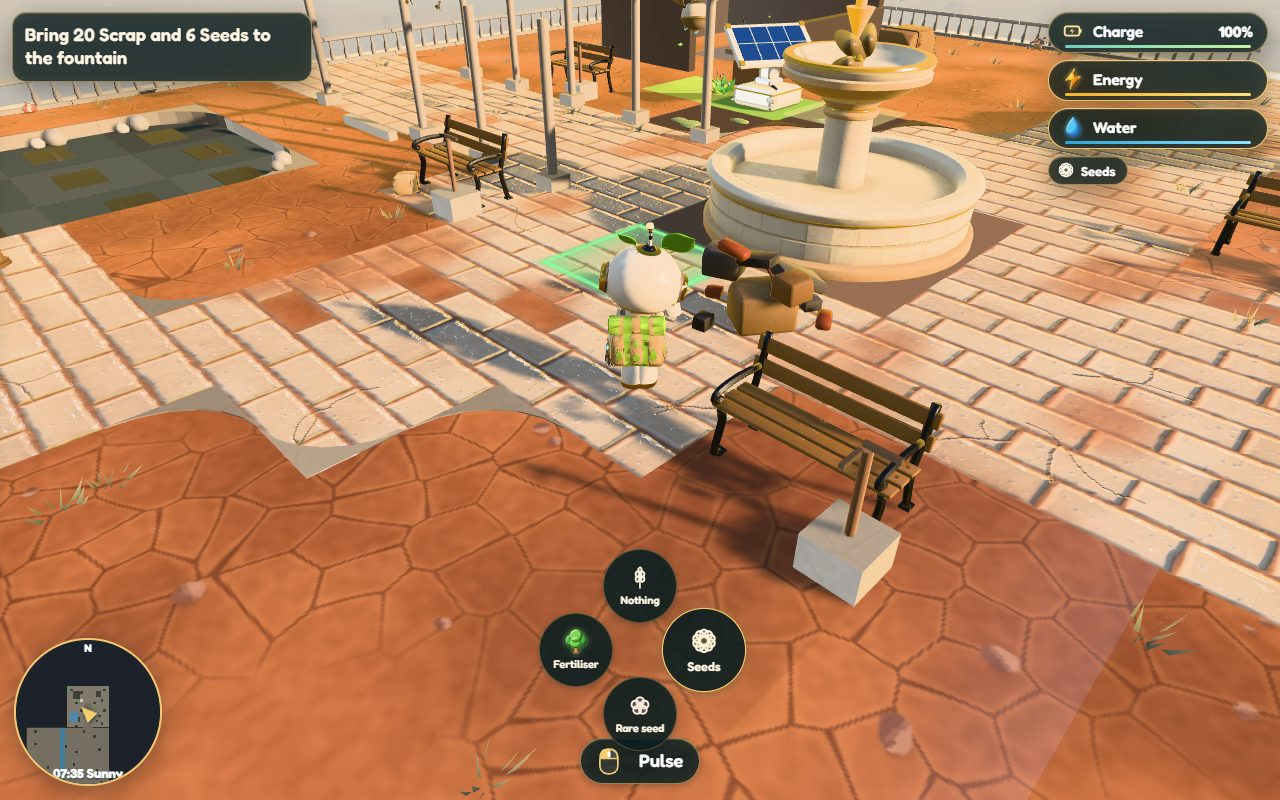
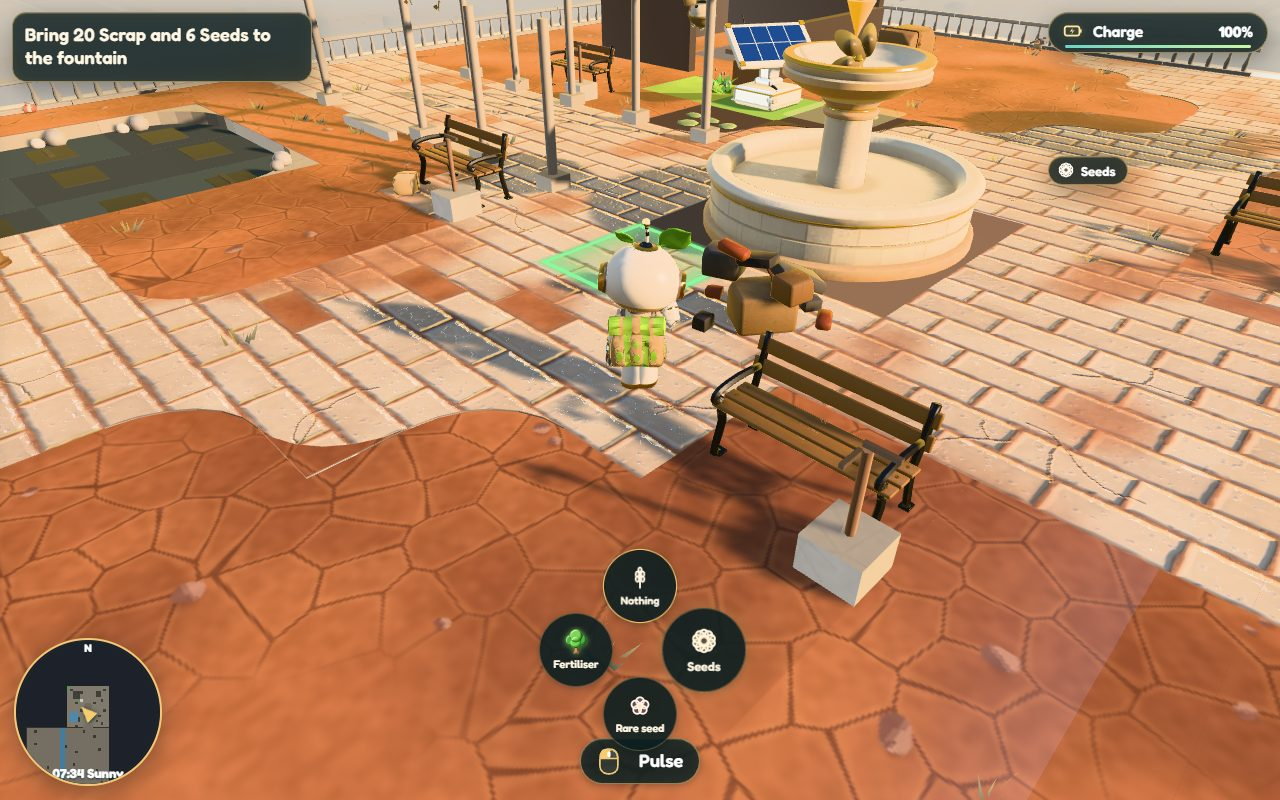
E23.2.2 review: the load wheel's one-time introduction; wheel and ripple numbers in data; screenshots retaken

diff --git a/src/app/Game.ts b/src/app/Game.ts
@@ -16,7 +16,7 @@ import { EXPLORE } from '../rendering/CameraController';
 import { OLD_CITY, PARK_SET, REGIONS } from '../data/oldcity';
 import { seaCell, setPieceAt } from '../core/OldCityLayout';
 import { TUNING } from '../data/tuning';
-import { RIPPLE } from '../data/pulse';
+import { LOAD_WHEEL, RIPPLE } from '../data/pulse';
 import { UPGRADE_BY_ID } from '../data/upgrades';
 import type { ChainEvent } from '../gameplay/BloomChainSystem';
 import { CAT_REWARD_NAMES } from '../gameplay/LuckyCatSystem';
@@ -3344,14 +3344,17 @@ export class Game {
     b.on('pulse.ripple', ({ tileId, targets }) => {
       const t = s.grid.byTileId(tileId);
       if (!t || !s.oldCity) return;
-      this.vfx.ring(this.tileVec(t), '#bff3ff', RIPPLE.radius, 0.9);
+      this.vfx.ring(this.tileVec(t), PALETTE[RIPPLE.tint], RIPPLE.radius, RIPPLE.ringSeconds);
       for (const g of targets) {
         const at = s.grid.get(GROUND, g.x, g.z);
         if (!at) continue;
         const d = Math.hypot(g.x - t.x, g.z - t.z);
-        const hex = g.kind === 'page' ? '#fff3c4' : g.kind === 'cache' ? PALETTE.gold : '#bff3ff';
-        for (let i = 0; i < 3; i++)
-          this.tweens.add(0.01, () => {}, { delay: 0.06 * d + i * (RIPPLE.seconds / 3), done: () => (this.vfx.ring(this.tileVec(at), hex, 0.7, 0.9), this.vfx.sparkles(this.tileVec(at), 5, true)) });
+        const hex = PALETTE[RIPPLE.found[g.kind]];
+        for (let i = 0; i < RIPPLE.pings; i++)
+          this.tweens.add(0.01, () => {}, {
+            delay: RIPPLE.delayPerTile * d + i * (RIPPLE.seconds / RIPPLE.pings),
+            done: () => (this.vfx.ring(this.tileVec(at), hex, RIPPLE.pingRadius, RIPPLE.pingSeconds), this.vfx.sparkles(this.tileVec(at), RIPPLE.sparkles, true)),
+          });
       }
     });
     b.on('pulse.fired', ({ tileId, extra, overcharged }) => {
@@ -3607,6 +3610,16 @@ export class Game {
       f.chargeEmpty = Math.round(s.time);
       this.hud.toast(`Out of charge<small>Bloombot walks slower and can't pulse. Press ${this.hudKeys('eat')} to eat biomass or food, or rest.</small>`, '', 6);
     });
+    // E23.2.2.1: the load wheel is a new concept: one short introduction the first time bloombot carries something
+    // to load (the ring shows with it); after that the wheel and the chip show it
+    const introWheel = () => {
+      if (!s.pulseLoad.introDue()) return;
+      s.pulseLoad.introduced();
+      this.hud.loadWheel.show(LOAD_WHEEL.introSeconds);
+      this.hud.toast(`Bloombot can load its pulse<small>Press ${this.hudKeys('loadNext')} or ${this.hudKeys('loadPrev')} to choose what a pulse grows. Each loaded pulse uses one.</small>`, '', LOAD_WHEEL.introSeconds);
+    };
+    b.on('pack.changed', introWheel);
+    introWheel();
     b.on('rooftop.coreReady', () => {
       this.machines.setCoreState('ready');
       this.hud.toast(`✨ The Rooftop Core is humming!<small>Walk up and press ${this.hudKey('interact')} (or use the button) to awaken the building.</small>`, 'gold', 5);

diff --git a/tests/pulse-load.test.ts b/tests/pulse-load.test.ts
@@ -4,7 +4,7 @@ import { PARK } from '../src/core/Areas';
 import { createInitialState, GROUND } from '../src/core/GameState';
 import type { TileData } from '../src/core/types';
 import { PARK_SET, REGIONS } from '../src/data/oldcity';
-import { PULSE_LOAD, RARE_PLANTS, RIPPLE } from '../src/data/pulse';
+import { LOAD_WHEEL, PULSE_LOAD, RARE_PLANTS, RIPPLE } from '../src/data/pulse';
 import { RECIPES } from '../src/data/salvage';
 import { faunaGoal } from '../src/gameplay/Ecosystem';
 import { CAT_ANCHORS } from '../src/data/templates';
@@ -92,6 +92,20 @@ describe('E23.2.2.1: the load wheel and its cost', () => {
     expect(sim.restoration.pulse(b.id)).toBe(true);
     expect(b.plant).toBeUndefined();
     expect(sim.pulseLoad.choice).toBe('seeds'); // the wheel keeps its choice for when seeds come back
+  });
+  it('the wheel is introduced once: the first time bloombot carries something to load', () => {
+    const sim = oldSim();
+    for (const k of Object.keys(pack(sim))) delete pack(sim)[k];
+    expect(sim.pulseLoad.introDue()).toBe(false); // nothing to load yet: nothing to explain
+    sim.inventory.add('seeds', 1);
+    expect(sim.pulseLoad.introDue()).toBe(true);
+    sim.pulseLoad.introduced();
+    expect(sim.pulseLoad.introDue()).toBe(false); // once only
+    const saver = new SaveService(undefined);
+    const back = new Sim(saver.deserialize(saver.serialize(sim.state))!);
+    expect(back.pulseLoad.introDue()).toBe(false); // and not again after a reload
+    expect(new Sim(createInitialState(7)).pulseLoad.introDue()).toBe(false); // classic rules: no wheel
+    expect(LOAD_WHEEL.introSeconds).toBeGreaterThan(LOAD_WHEEL.showSeconds);
   });
 });
 

diff --git a/src/data/pulse.ts b/src/data/pulse.ts
@@ -42,6 +42,25 @@ export const RIPPLE = {
   radius: 7,
   /** how long what it found stays lit, seconds */
   seconds: 4,
+  /** the wide ring from the pulsed tile: how long it takes to spread, seconds */
+  ringSeconds: 0.9,
+  /** each thing found: how many times it rings while lit, how wide (tiles), and the delay per tile of distance */
+  pings: 3,
+  pingRadius: 0.7,
+  pingSeconds: 0.9,
+  delayPerTile: 0.06,
+  sparkles: 5,
+  /** the colours, as PALETTE names: the ripple itself, and what it found by kind */
+  tint: 'ripple',
+  found: { salvage: 'ripple', buried: 'ripple', cache: 'gold', page: 'ripplePage' },
+} as const;
+
+/** E23.2.2.1: the load wheel on screen. */
+export const LOAD_WHEEL = {
+  /** seconds the ring stays up after the wheel turns */
+  showSeconds: 1.6,
+  /** the one-time introduction, the first time bloombot carries something to load: the ring and its note stay this long */
+  introSeconds: 7,
 } as const;
 
 /** Each region's rare plants (the look of a rare-seed pulse there); unlisted regions use `default`. */

diff --git a/src/gameplay/PulseLoad.ts b/src/gameplay/PulseLoad.ts
@@ -58,6 +58,17 @@ export class PulseLoad {
     return pack?.[def.item] ?? 0;
   }
 
+  /**
+   * The load wheel is a new idea, so it is introduced once: the first time bloombot carries anything it can load.
+   * True while that introduction is still owed (`introduced()` marks it given).
+   */
+  introDue(): boolean {
+    return this.on && this.sim.state.stats.firsts.loadWheel === undefined && PULSE_LOADS.some((l) => l.item && this.carried(l) > 0);
+  }
+  introduced() {
+    this.sim.state.stats.firsts.loadWheel = Math.round(this.sim.time);
+  }
+
   /** What the next pulse will carry: the chosen load if one is carried, else nothing. */
   next(): PulseLoadDef {
     const d = this.def;

diff --git a/src/ui/LoadWheel.ts b/src/ui/LoadWheel.ts
@@ -1,4 +1,4 @@
-import { PULSE_LOADS } from '../data/pulse';
+import { LOAD_WHEEL, PULSE_LOADS } from '../data/pulse';
 import { $, HudPart, esc } from './HudPart';
 import { iconize } from './Icons';
 
@@ -24,9 +24,9 @@ export class LoadWheel extends HudPart {
     this.chip = $(this.root, '#loadChip');
   }
 
-  /** The wheel turned: show the ring for a moment. */
-  show() {
-    this.shown = 1.6;
+  /** The wheel turned: show the ring for a moment (longer for its one-time introduction). */
+  show(seconds: number = LOAD_WHEEL.showSeconds) {
+    this.shown = Math.max(this.shown, seconds);
   }
 
   update(dt: number) {

diff --git a/src/rendering/Palette.ts b/src/rendering/Palette.ts
@@ -633,6 +633,9 @@ export const PALETTE = {
   /** E23.2.2.2: the hummingbird hawk-moth rare plants draw */
   mothBody: '#9a6a3e',
   mothWing: '#e0a24a',
+  /** E23.2.2.3: the reveal ripple's ring, and the warmer ring on a journal page it found */
+  ripple: '#bff3ff',
+  ripplePage: '#fff3c4',
   /** E23.2.2.3: a revealed buried find: freshly turned earth */
   turnedEarth: '#7b5134',
   turnedEarthDark: '#5d3b25',
